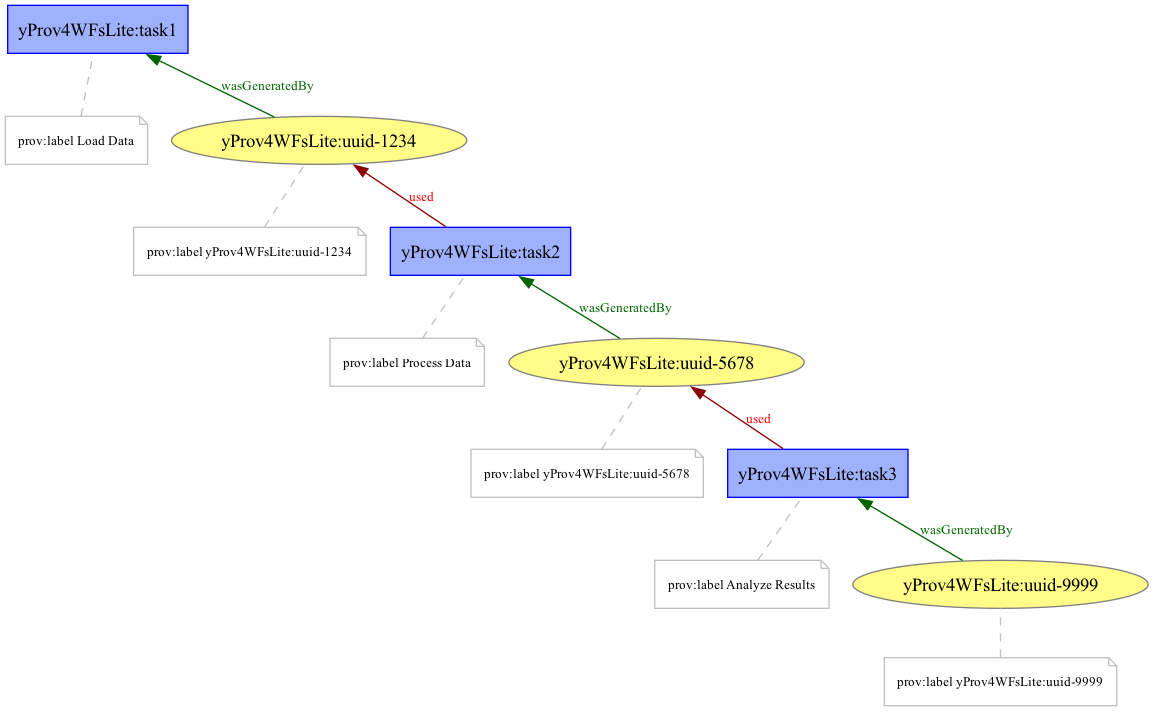
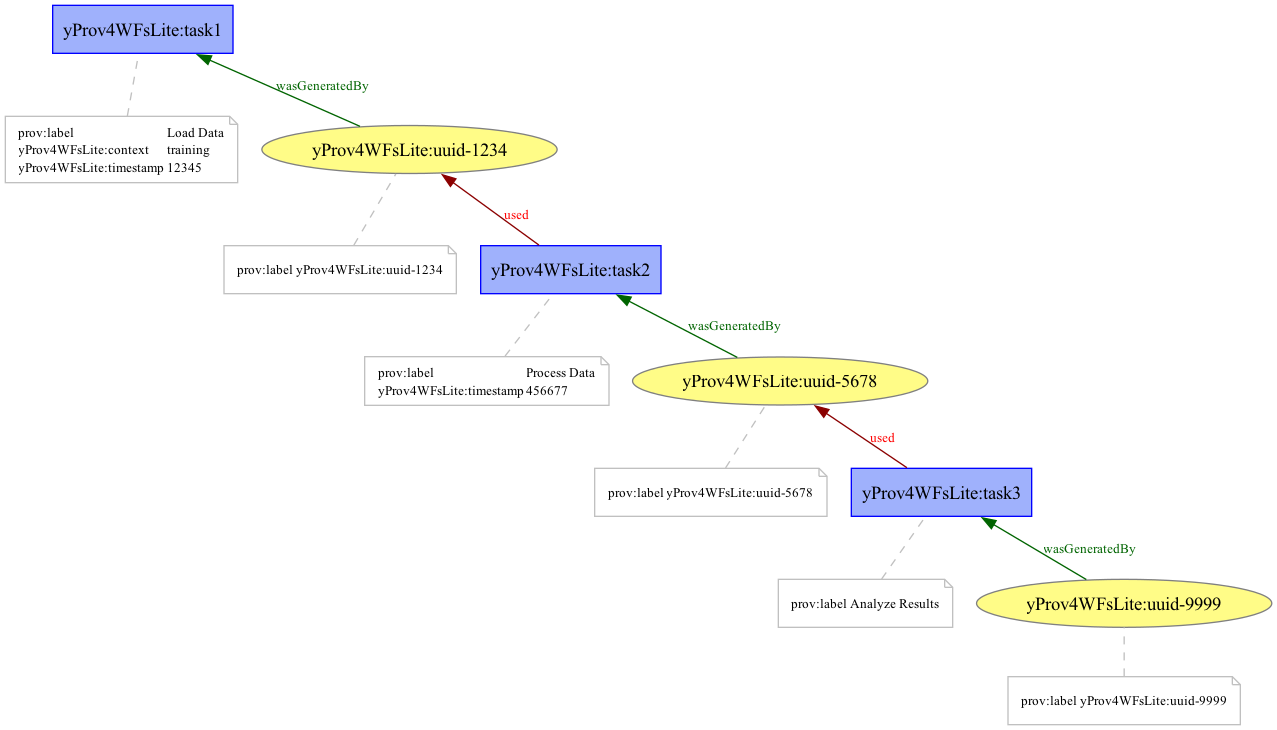
added args to activities

Changed region(s): [[0.0, 0.0, 0.9991, 0.8664], [0.7806, 0.8973, 0.9367, 0.9902], [0.9367, 0.9283, 0.9679, 0.9592]]

diff --git a/run.py b/run.py
@@ -20,10 +20,11 @@ class ProvWorkflowManager:
             self.entities[uid] = self.doc.entity(uid, {"prov:label": label or uid})
         return self.entities[uid]
 
-    def _create_activity(self, aid=None, label=None):
+    def _create_activity(self, aid=None, label=None, attributes=[]):
         if not aid:
             aid = f"activity-{uuid.uuid4()}"
-        activity = self.doc.activity(aid, None, None, {"prov:label": label or aid})
+        attributes["prov:label"] = label or aid
+        activity = self.doc.activity(aid, None, None, attributes)
         self.activities[aid] = activity
         return activity
 
@@ -35,10 +36,14 @@ class ProvWorkflowManager:
             task_id = task.get("id") or f"activity-{uuid.uuid4()}"
             task_id = IDENTIFIER + ":" + task_id
             label = task.get("label", task_id)
+
+            attributes = task.get("attributes", [])
+            attrs = {IDENTIFIER + ":" + list(a.keys())[0]: list(a.values())[0] for a in attributes}
+
             inputs = [IDENTIFIER +":" + i for i in task.get("inputs", []) if i]
             outputs = [IDENTIFIER +":" + o for o in task.get("outputs", []) if o]
 
-            activity = self._create_activity(task_id, label)
+            activity = self._create_activity(task_id, label, attrs)
 
             for input_id in inputs:
                 entity = self._get_or_create_entity(input_id)

diff --git a/README.md b/README.md
@@ -34,12 +34,17 @@ pip install -r requirements.txt
 tasks:
   - id: task1
     label: "Load Data"
+    attributes: 
+      - timestamp: 12345
+      - context: "training"
     inputs: []
     outputs:
       - "uuid-1234"
 
   - id: task2
     label: "Process Data"
+    attributes: 
+      - timestamp: 456677
     inputs:
       - "uuid-1234"
     outputs:
